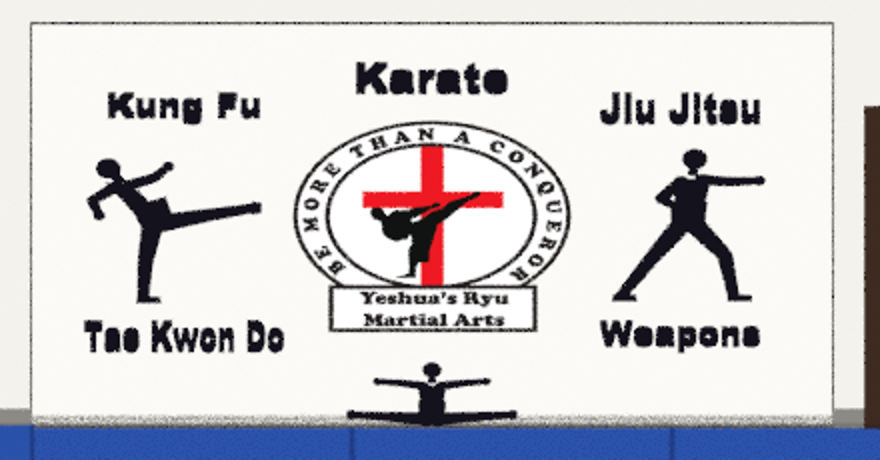
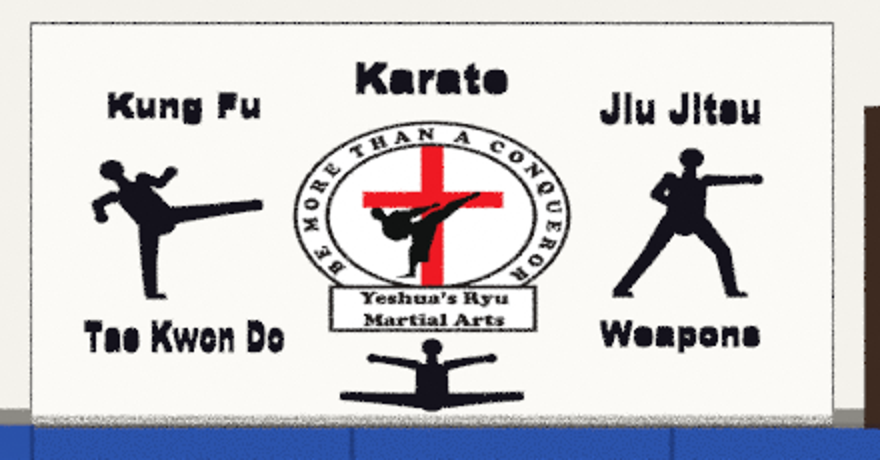
Action Zone inside v2: mural silhouettes redrawn on one shared body (same thickness, solid torso, no waist block)

Changed region(s): [[0.3682, 0.7304, 0.6136, 0.9435], [0.675, 0.3043, 0.8898, 0.6696], [0.092, 0.3348, 0.3068, 0.6696]]

diff --git a/incoming-art/claude-az-inside/source/build_action_zone_dojo.py b/incoming-art/claude-az-inside/source/build_action_zone_dojo.py
@@ -383,33 +383,35 @@ def torus(center, R, r, segs=18, rsegs=6, rot=(90, 0, 0)):
 def trap(p0, p1, w0, w1):
     dx, dy = p1[0] - p0[0], p1[1] - p0[1]; L_ = math.hypot(dx, dy) or 1e-6; nx, ny = -dy / L_, dx / L_
     return [(p0[0] + nx * w0 / 2, p0[1] + ny * w0 / 2), (p1[0] + nx * w1 / 2, p1[1] + ny * w1 / 2), (p1[0] - nx * w1 / 2, p1[1] - ny * w1 / 2), (p0[0] - nx * w0 / 2, p0[1] - ny * w0 / 2)]
-SIL = {   # solid martial-artist silhouettes in a gi, facing right; hip at (0, 0), about 1.5 tall. joints: neck, head, arms [shoulder->elbow->fist], legs [hip->knee->foot]
- "sidekick": dict(neck=(-0.3, 0.44), head=(-0.42, 0.6), lean=True,
-                  arms=[[(-0.24, 0.42), (-0.02, 0.5), (0.1, 0.62)], [(-0.36, 0.4), (-0.56, 0.26), (-0.5, 0.1)]],
-                  legs=[[(0.04, 0.02), (0.42, 0.1), (0.84, 0.18)], [(-0.04, -0.02), (-0.1, -0.4), (-0.12, -0.8)]], feet=[(1, 0.0), (0, 1)]),
- "stance":   dict(neck=(0.04, 0.52), head=(0.06, 0.7), lean=False,
-                  arms=[[(0.12, 0.48), (0.36, 0.46), (0.62, 0.47)], [(-0.06, 0.46), (-0.24, 0.28), (-0.06, 0.16)]],
-                  legs=[[(0.06, 0.0), (0.32, -0.32), (0.4, -0.78)], [(-0.06, 0.0), (-0.32, -0.36), (-0.6, -0.78)]], feet=[(0, 1), (0, 1)]),
- "split":    dict(neck=(0.0, 0.5), head=(0.0, 0.68), lean=False,
-                  arms=[[(0.1, 0.46), (0.36, 0.5), (0.62, 0.52)], [(-0.1, 0.46), (-0.36, 0.5), (-0.62, 0.52)]],
-                  legs=[[(0.06, 0.0), (0.45, 0.03), (0.9, 0.06)], [(-0.06, 0.0), (-0.45, 0.03), (-0.9, 0.06)]], feet=[(1, 0.0), (-1, 0.0)]),
+SIL = {   # solid martial-artist silhouettes, facing right; hip at (0, 0), about 1.5 tall. arms/legs: [elbow, fist] / [knee, foot]; arm 0 and leg 0 are the front (right) side
+ "sidekick": dict(neck=(-0.32, 0.42), head=(-0.43, 0.57), arms=[[(0.0, 0.42), (0.1, 0.55)], [(-0.56, 0.2), (-0.52, 0.05)]],
+                  legs=[[(0.46, 0.13), (0.86, 0.19)], [(-0.1, -0.42), (-0.08, -0.8)]], feet=["blade", "flat"]),
+ "stance":   dict(neck=(0.04, 0.52), head=(0.06, 0.7), arms=[[(0.4, 0.46), (0.64, 0.47)], [(-0.26, 0.3), (-0.08, 0.18)]],
+                  legs=[[(0.34, -0.32), (0.42, -0.78)], [(-0.32, -0.36), (-0.6, -0.78)]], feet=["flat", "flat"]),
+ "split":    dict(neck=(0.0, 0.5), head=(0.0, 0.68), arms=[[(0.36, 0.5), (0.62, 0.54)], [(-0.36, 0.5), (-0.62, 0.54)]],
+                  legs=[[(0.5, 0.03), (0.9, 0.06)], [(-0.5, 0.03), (-0.9, 0.06)]], feet=["blade", "bladeL"]),
 }
 def sil(pose, ox, oy, s):
+    """one body for every pose: the same torso, limb widths and head size, so the figures match each other"""
     P = SIL[pose]; m = lambda p: (ox + s * p[0], oy + s * p[1]); out = []
-    hipL, hipR = m((-0.11, 0.0)), m((0.11, 0.0)); nk = P["neck"]
-    sh = (-0.16, 0.0) if not P["lean"] else (-0.15, 0.05)
-    out.append([hipL, hipR, m((nk[0] - sh[0], nk[1] - sh[1] - 0.03)), m((nk[0] + sh[0], nk[1] + sh[1] - 0.03))])      # torso (jacket)
-    out.append(trap(m((0, 0.04)), m((nk[0] * 0.25, 0.25)), 0.3 * s, 0.32 * s))                                        # gi skirt / waist
-    out.append(circ(*m(P["head"]), 0.11 * s, 18)); out.append(trap(m(nk), m(P["head"]), 0.09 * s, 0.08 * s))
-    for arm in P["arms"]:
-        out.append(trap(m(arm[0]), m(arm[1]), 0.12 * s, 0.1 * s)); out.append(trap(m(arm[1]), m(arm[2]), 0.1 * s, 0.08 * s))
-        out.append(circ(*m(arm[1]), 0.05 * s, 10)); out.append(circ(*m(arm[2]), 0.055 * s, 10)); out.append(circ(*m(arm[0]), 0.065 * s, 10))
-    for leg, ft in zip(P["legs"], P["feet"]):
-        out.append(trap(m(leg[0]), m(leg[1]), 0.19 * s, 0.14 * s)); out.append(trap(m(leg[1]), m(leg[2]), 0.14 * s, 0.1 * s))
-        out.append(circ(*m(leg[1]), 0.07 * s, 10)); out.append(circ(*m(leg[0]), 0.1 * s, 12))
-        fx, fy = m(leg[2])
-        if ft[1]: out.append([(fx - 0.06 * s, fy - 0.03 * s), (fx + 0.16 * s, fy - 0.03 * s), (fx + 0.15 * s, fy + 0.04 * s), (fx - 0.05 * s, fy + 0.05 * s)])   # foot flat on the ground
-        else: out.append(trap((fx - ft[0] * 0.02 * s, fy), (fx + ft[0] * 0.07 * s, fy), 0.15 * s, 0.11 * s))                                           # blade of the foot
+    nk = P["neck"]; L_ = math.hypot(*nk); dx, dy = nk[0] / L_, nk[1] / L_; px, py = dy, -dx          # torso direction and its right-hand side
+    base = (nk[0] - dx * 0.05, nk[1] - dy * 0.05)
+    hipR, hipL = (px * 0.12, py * 0.12), (-px * 0.12, -py * 0.12)
+    shR, shL = (base[0] + px * 0.17, base[1] + py * 0.17), (base[0] - px * 0.17, base[1] - py * 0.17)
+    out.append([m((hipL[0] * 1.5, hipL[1] * 1.5)), m((hipR[0] * 1.5, hipR[1] * 1.5)), m(shR), m(nk), m(shL)]); out.append(circ(*m((0, 0)), 0.15 * s, 16))   # solid torso and pelvis
+    out.append(trap(m(base), m(P["head"]), 0.12 * s, 0.11 * s)); out.append(circ(*m(nk), 0.07 * s, 12))
+    out.append(circ(*m(P["head"]), 0.115 * s, 20))
+    for sh, (el, fi) in zip((shR, shL), P["arms"]):
+        out.append(trap(m(sh), m(el), 0.13 * s, 0.11 * s)); out.append(trap(m(el), m(fi), 0.11 * s, 0.095 * s))
+        out.append(circ(*m(sh), 0.07 * s, 10)); out.append(circ(*m(el), 0.055 * s, 10)); out.append(circ(*m(fi), 0.065 * s, 10))
+    for hp, (kn, ft), kind in zip((hipR, hipL), P["legs"], P["feet"]):
+        out.append(trap(m(hp), m(kn), 0.2 * s, 0.15 * s)); out.append(trap(m(kn), m(ft), 0.15 * s, 0.12 * s))
+        out.append(circ(*m(hp), 0.1 * s, 12)); out.append(circ(*m(kn), 0.075 * s, 10))
+        fx, fy = m(ft)
+        if kind == "flat": out.append([(fx - 0.05 * s, fy - 0.04 * s), (fx + 0.15 * s, fy - 0.04 * s), (fx + 0.13 * s, fy + 0.03 * s), (fx - 0.04 * s, fy + 0.04 * s)])
+        else:
+            sg = -1 if kind == "bladeL" else 1
+            out.append(trap((fx - sg * 0.02 * s, fy), (fx + sg * 0.06 * s, fy), 0.14 * s, 0.1 * s))
     return out
 
 def scene_inside():
@@ -533,9 +535,9 @@ def scene_inside():
     imgplane(LOGO, "muralLogo", cx, 1.75, 1.75 * LOGO_AR, row=WF + 0.1, zc=1.72)
     for s, x, z, w in (("Karate", cx, 2.85, 0.95), ("Kung Fu", a + 0.95, 2.62, 0.95), ("Jiu Jitsu", b - 0.95, 2.62, 1.0), ("Tae Kwon Do", a + 0.95, 0.88, 1.25), ("Weapons", b - 0.95, 0.88, 1.0)):
         text("t_" + s, s, x, WF + 0.1, z, 0.21, w, INK, 0.03, False)
-    for poly_ in sil("sidekick", a + 0.78, 1.78, 0.72): wpoly(poly_, INK, 4, "silKick")
-    for poly_ in sil("stance", b - 0.9, 1.78, 0.72): wpoly(poly_, INK, 4, "silStance")
-    for poly_ in sil("split", cx, 0.3, 0.55): wpoly(poly_, INK, 4, "silSplit")
+    for poly_ in sil("sidekick", a + 0.8, 1.8, 0.7): wpoly(poly_, INK, 4, "silKick")
+    for poly_ in sil("stance", b - 0.92, 1.8, 0.7): wpoly(poly_, INK, 4, "silStance")
+    for poly_ in sil("split", cx, 0.44, 0.6): wpoly(poly_, INK, 4, "silSplit")
     # round clock
     wdisc(LM.FLAG[0] - 0.12, 3.0, 0.2, "#25252e", 0, "clockRim"); wdisc(LM.FLAG[0] - 0.12, 3.0, 0.16, "#f4f1e8", 1, "clockFace")
     for k in range(12): wdisc(LM.FLAG[0] - 0.12 + 0.12 * math.sin(k * math.pi / 6), 3.0 + 0.12 * math.cos(k * math.pi / 6), 0.012, "#25252e", 2, "tick")
